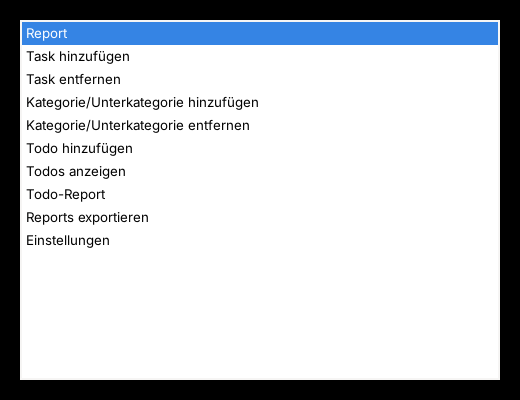
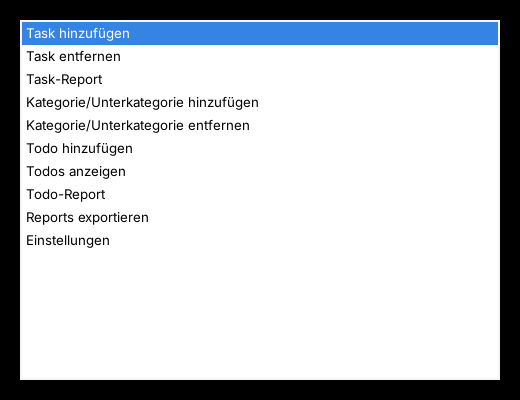
timeTracker 2.5.2: consistent menu order (Add task, Remove task, Task report)
- "Report" renamed to "Task report" and placed after the task entries, like the todo group
- Menu groups separated; "Add task" preselected when the menu opens
- Docs, screenshots and changelog updated

Claude-Session: https://claude.ai/code/session_018uKn86tpdmContngCnVU2A

Changed region(s): [[0.0308, 0.06, 0.2462, 0.21]]

diff --git a/linux/zeiterfassung.py b/linux/zeiterfassung.py
@@ -1,7 +1,7 @@
 #!/usr/bin/env python3
 # -*- coding: utf-8 -*-
 """
-timeTracker - zeiterfassung.py (Linux, Python 3 + GTK 3)            Version 2.5.1
+timeTracker - zeiterfassung.py (Linux, Python 3 + GTK 3)            Version 2.5.2
 
 Arbeitszeit- und Todo-Verwaltung als Tray-Anwendung. Gleiche Datendateien und Formate
 wie windows/zeiterfassung.ps1, damit beide Varianten parallel auf demselben
@@ -32,7 +32,7 @@ import sys
 import time
 import uuid
 
-VERSION = "2.5.1"
+VERSION = "2.5.2"
 
 # -----------------------------------------------------------------------------
 # Pfade
@@ -71,7 +71,7 @@ def log(msg):
 STRINGS = {
     "de": {
         "app.title": "Arbeitszeit",
-        "menu.report": "Report", "menu.addTask": "Task hinzufügen",
+        "menu.report": "Task-Report", "menu.addTask": "Task hinzufügen",
         "menu.addCat": "Kategorie/Unterkategorie hinzufügen", "menu.remCat": "Kategorie/Unterkategorie entfernen",
         "menu.addTodo": "Todo hinzufügen", "menu.todos": "Todos anzeigen", "menu.todoReport": "Todo-Report",
         "menu.export": "Reports exportieren", "menu.settings": "Einstellungen",
@@ -96,7 +96,7 @@ STRINGS = {
         "cat.remSelect": "Kategorie zum Entfernen wählen", "cat.remSub": "Unterkategorie entfernen",
         "cat.remAll": "[Kategorie vollständig entfernen]",
         "week.select": "Woche wählen", "week.label": "KW {0} / {1}   ({2} .. {3})",
-        "report.title": "Report - KW {0}: {1}  ({2} .. {3})  F5 = aktualisieren",
+        "report.title": "Task-Report - KW {0}: {1}  ({2} .. {3})  F5 = aktualisieren",
         "report.noEntries": "Keine Einträge in dieser Woche.", "report.noData": "Keine Daten vorhanden.",
         "todoReport.title": "Todo-Report (Markdown)  F5 = aktualisieren",
         "todoReport.kw": "# KW {0}", "todoReport.week": "## Woche", "todoReport.month": "## Monat ({0})",
@@ -157,7 +157,7 @@ STRINGS = {
     },
     "en": {
         "app.title": "Work time",
-        "menu.report": "Report", "menu.addTask": "Add task",
+        "menu.report": "Task report", "menu.addTask": "Add task",
         "menu.addCat": "Add category/subcategory", "menu.remCat": "Remove category/subcategory",
         "menu.addTodo": "Add todo", "menu.todos": "Show todos", "menu.todoReport": "Todo report",
         "menu.export": "Export reports", "menu.settings": "Settings",
@@ -182,7 +182,7 @@ STRINGS = {
         "cat.remSelect": "Select category to remove", "cat.remSub": "Remove subcategory",
         "cat.remAll": "[Remove entire category]",
         "week.select": "Select week", "week.label": "CW {0} / {1}   ({2} .. {3})",
-        "report.title": "Report - CW {0}: {1}  ({2} .. {3})  F5 = refresh",
+        "report.title": "Task report - CW {0}: {1}  ({2} .. {3})  F5 = refresh",
         "report.noEntries": "No entries in this week.", "report.noData": "No data available.",
         "todoReport.title": "Todo report (Markdown)  F5 = refresh",
         "todoReport.kw": "# CW {0}", "todoReport.week": "## Week", "todoReport.month": "## Month ({0})",
@@ -2002,9 +2002,10 @@ def action_export():
 # Menü (Tray und Tastatur-Dialog)
 # -----------------------------------------------------------------------------
 MENU = [
-    ("menu.report", action_report),
     ("menu.addTask", action_add_task),
     ("menu.remTask", action_remove_task),
+    ("menu.report", action_report),
+    None,
     ("menu.addCat", action_add_category),
     ("menu.remCat", action_remove_category),
     None,

diff --git a/docs/de/benutzerhandbuch.md b/docs/de/benutzerhandbuch.md
@@ -10,9 +10,9 @@ werden Fehler in `%APPDATA%\Zeiterfassung\zeiterfassung.log` protokolliert.
 
 | Menüpunkt | Funktion |
 |---|---|
-| Report | Wochen-Report einer gewählten Woche anzeigen |
 | Task hinzufügen | Arbeitszeit buchen |
 | Task entfernen | nicht mehr benötigte gespeicherte Tasks löschen |
+| Task-Report | Wochen-Report einer gewählten Woche anzeigen |
 | Kategorie/Unterkategorie hinzufügen / entfernen | Struktur pflegen |
 | Todo hinzufügen / Todos anzeigen / Todo-Report | Todos verwalten |
 | Reports exportieren | Wochen-Report und Todo-Report als Dateien speichern |
@@ -68,9 +68,9 @@ Jeder Eintrag landet sofort in `worklogs/<Montag der Woche>_worklog.csv`.
 aus der Auswahlliste (`tasks.json`); bereits gebuchte Einträge im Worklog bleiben unverändert.
 Danach wird die Liste der verbleibenden Tasks erneut angezeigt, **Esc** beendet.
 
-## Report
+## Task-Report
 
-**Report** → Woche wählen (die aktuelle Woche ist vorausgewählt; Anzeige `KW 45 / 2026 (2026-11-02 .. 2026-11-08)`).
+**Task-Report** → Woche wählen (die aktuelle Woche ist vorausgewählt; Anzeige `KW 45 / 2026 (2026-11-02 .. 2026-11-08)`).
 Einträge mit gleichem Datum, gleicher Kategorie, Unterkategorie und Beschreibung werden summiert.
 Der Fenstertitel zeigt die Wochensumme.
 

diff --git a/docs/en/user-guide.md b/docs/en/user-guide.md
@@ -10,9 +10,9 @@ errors are logged to `%APPDATA%\Zeiterfassung\zeiterfassung.log`.
 
 | Menu item | Function |
 |---|---|
-| Report | show the weekly report of a selected week |
 | Add task | log work time |
 | Remove task | delete saved tasks you no longer need |
+| Task report | show the weekly report of a selected week |
 | Add / remove category/subcategory | maintain the structure |
 | Add todo / Show todos / Todo report | manage todos |
 | Export reports | save weekly report and todo report as files |
@@ -72,9 +72,9 @@ Every entry is written immediately to `worklogs/<monday of the week>_worklog.csv
 selection list (`tasks.json`); entries already logged in the worklog stay unchanged. The list of
 remaining tasks is shown again, **Esc** ends.
 
-## Report
+## Task report
 
-**Report** → select a week (the current week is preselected; shown as `CW 45 / 2026 (2026-11-02 .. 2026-11-08)`).
+**Task report** → select a week (the current week is preselected; shown as `CW 45 / 2026 (2026-11-02 .. 2026-11-08)`).
 Entries with the same date, category, subcategory and description are summed up. The window
 title shows the weekly total.
 

diff --git a/CHANGELOG.md b/CHANGELOG.md
@@ -1,5 +1,9 @@
 # Changelog
 
+## 2.5.2 – 2026-11-23
+- Menu reordered like the todo group: Add task, Remove task, Task report (renamed from “Report”);
+  groups separated by lines; “Add task” is preselected when the menu opens
+
 ## 2.5.1 – 2026-11-23
 - Windows: today's total in the tray tooltip was not always refreshed. It is now also recalculated
   when the menu opens (shown as the first, greyed-out menu item) and when hovering over the icon;
